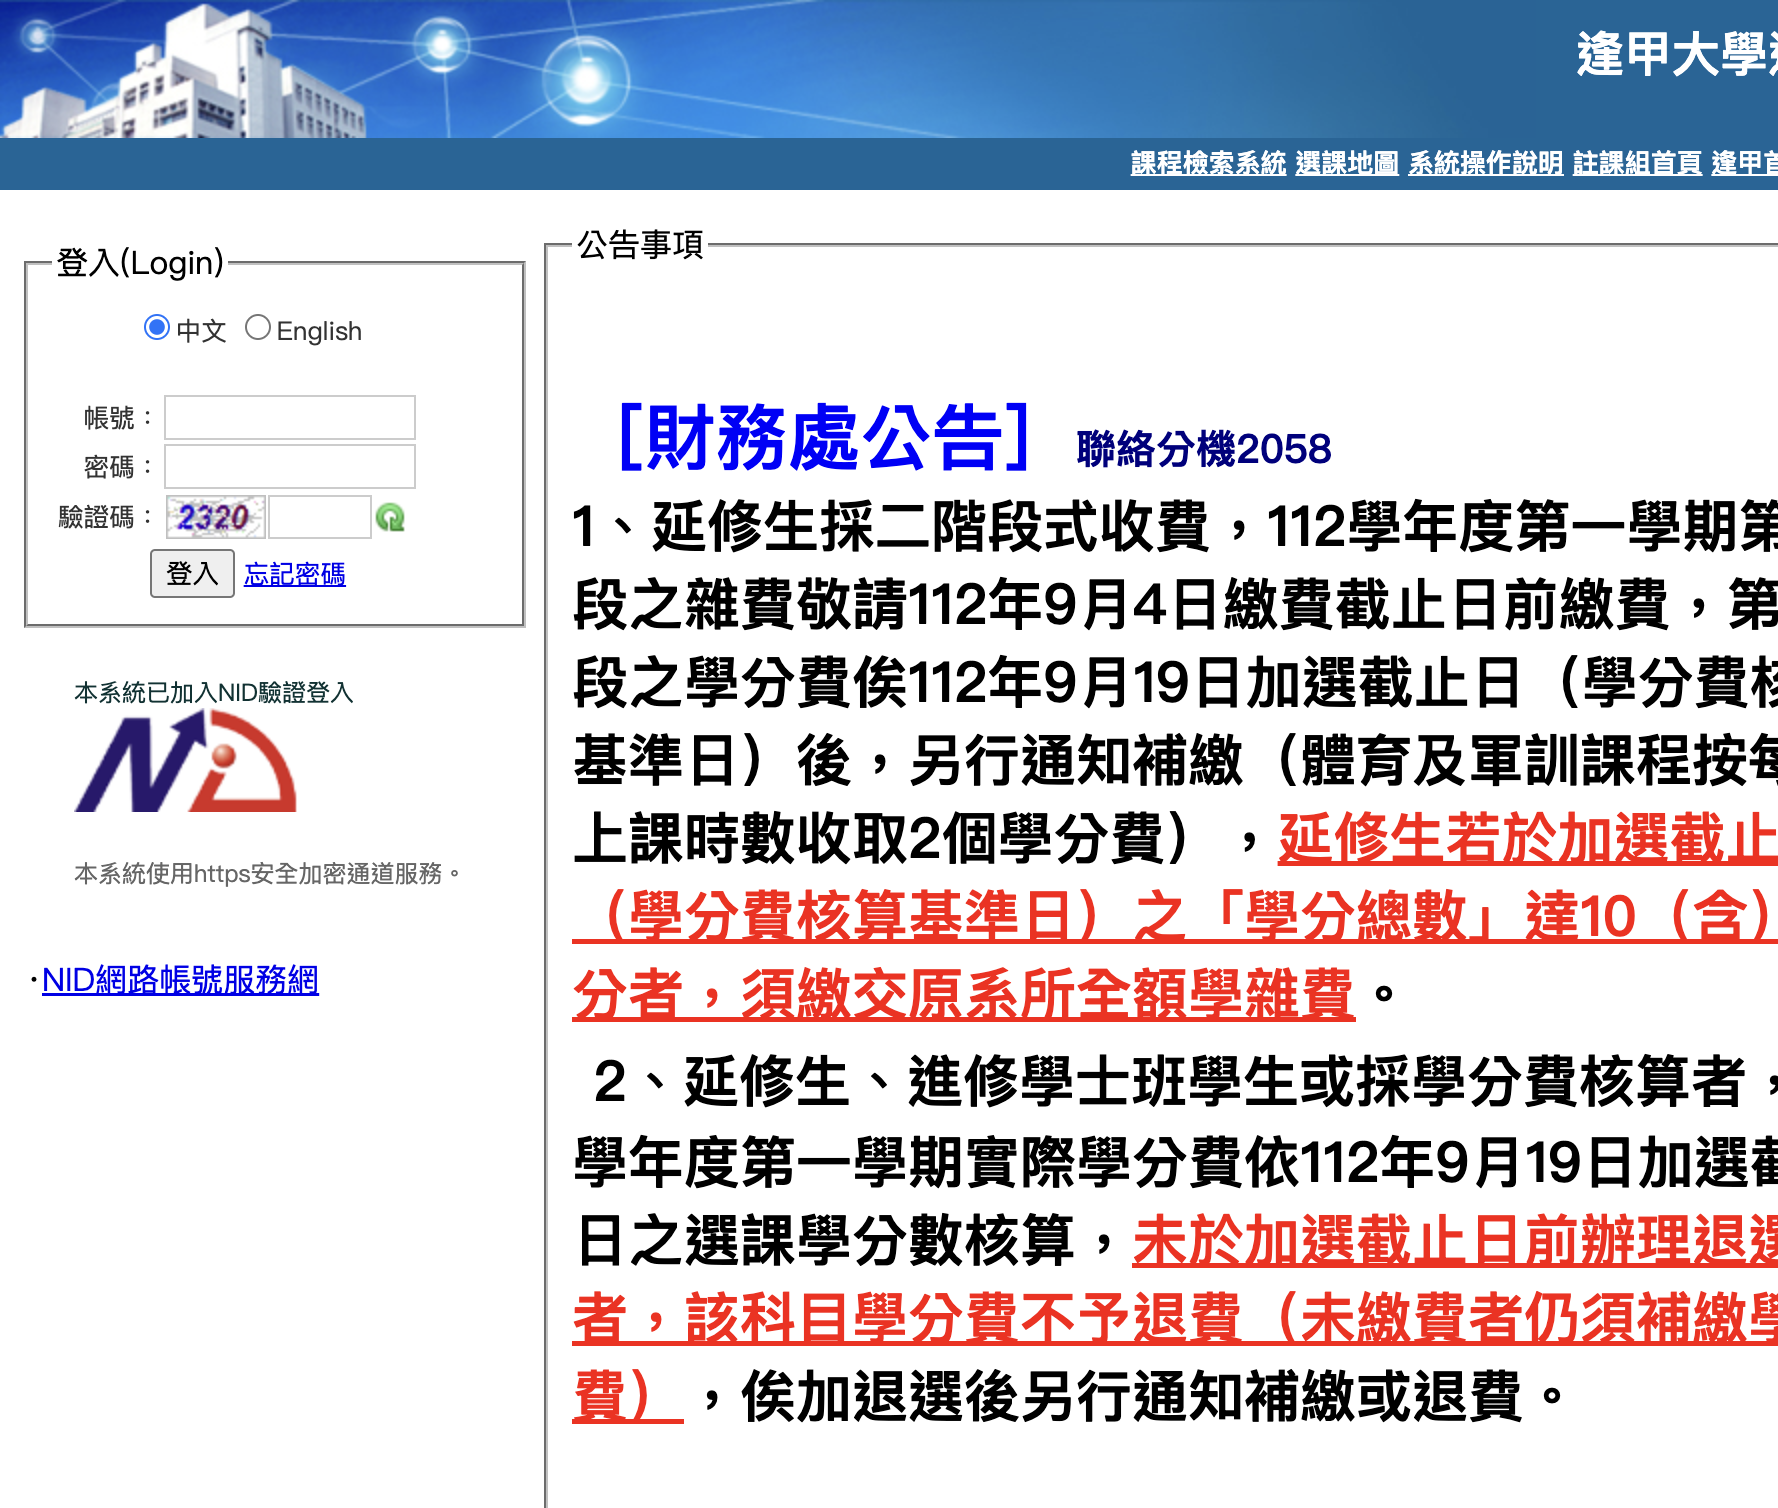
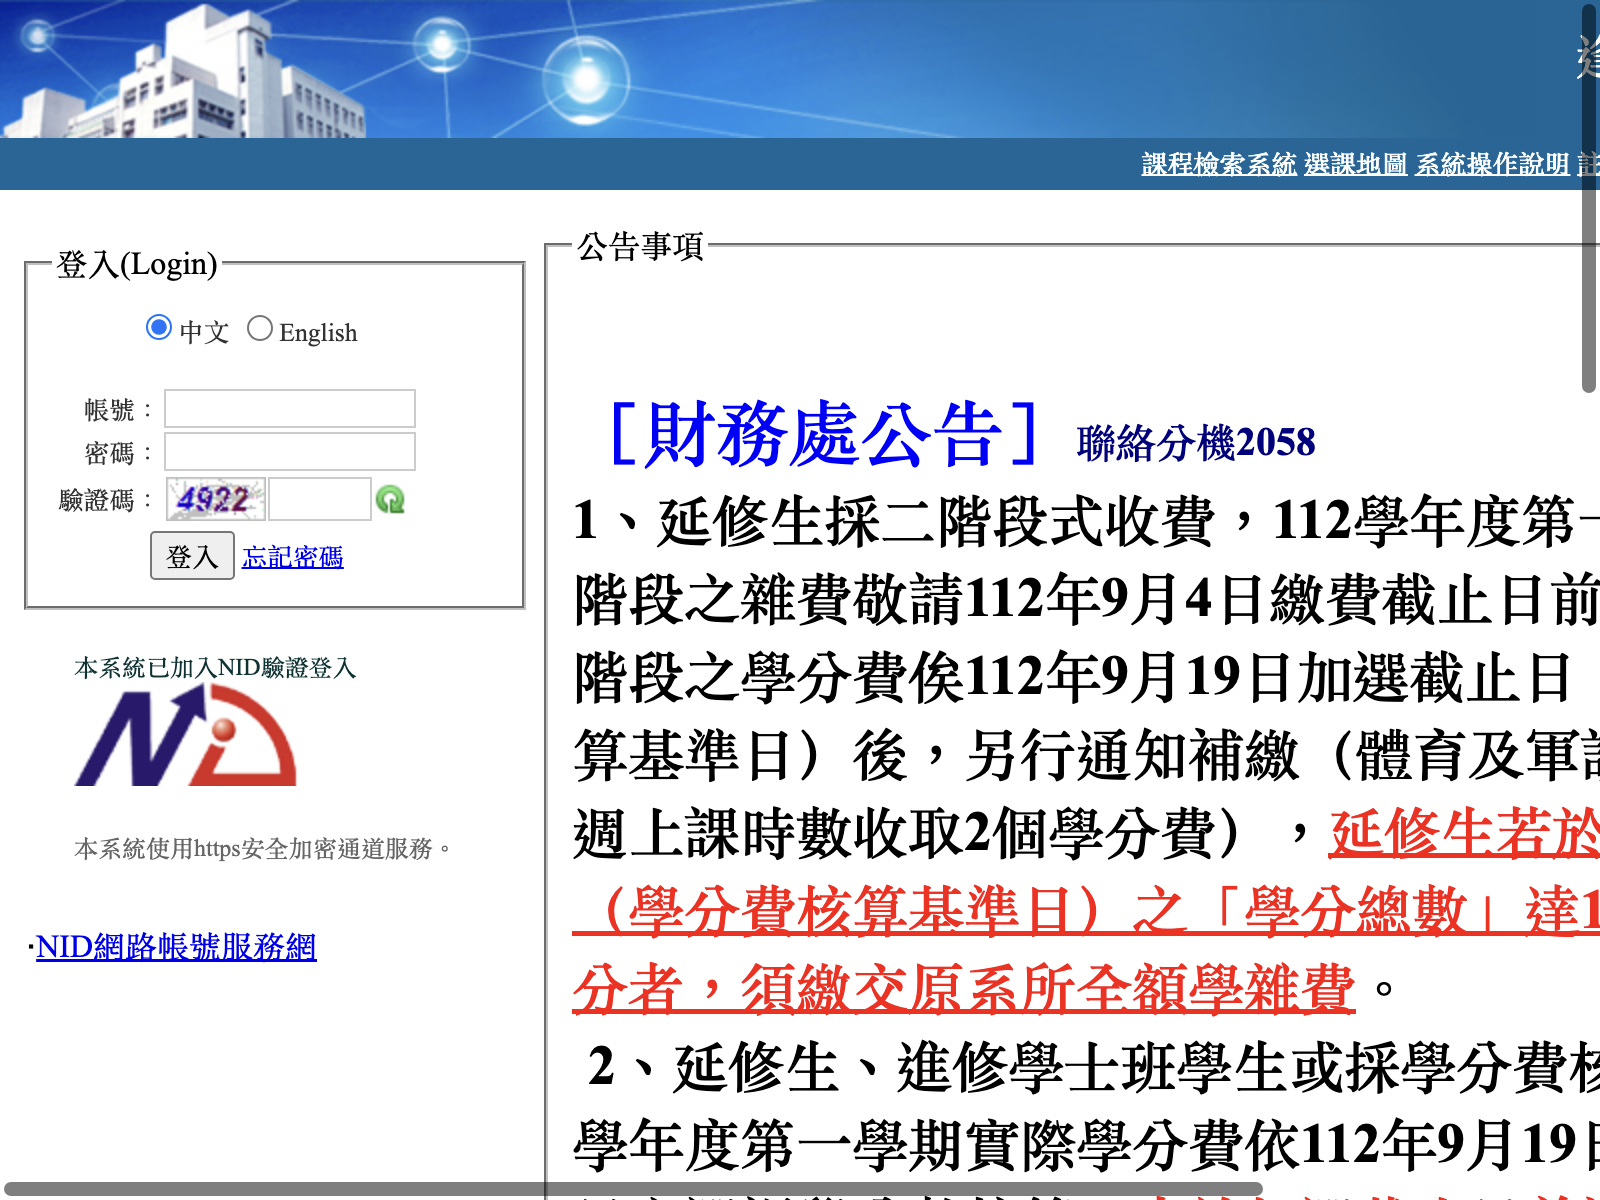
update

diff --git a/main/app.py b/main/app.py
@@ -17,23 +17,32 @@ import shutil
 chromedriver = "/opt/homebrew/bin/chromedriver"
 options = webdriver.ChromeOptions()
 options.add_argument("--incognito")
-# options.add_argument("headless")
-# options.add_argument("head")
+options.add_argument("headless")
 driver = webdriver.Chrome(options=options)
 
 Course_RUL = "https://course.fcu.edu.tw/"
 Logout_button = None
-
+webwait = 3
 def clear(): os.system('clear')
 
 def Get_Logout_button():
     return driver.find_element(By.XPATH, "//input[@name='ctl00$btnLogout']")
 
 def Get_boxes():
-    return [driver.find_element(By.XPATH, "//input[@id='ctl00_Login1_UserName']"), driver.find_element(By.XPATH, "//input[@id='ctl00_Login1_Password']"), driver.find_element(By.XPATH, "//input[@id='ctl00_Login1_vcode']")]
-
-def Get_vcode_element():
-    return driver.find_element(By.XPATH, "//img[@id='ctl00_Login1_Image1']")
+    return [
+        WebDriverWait(driver, webwait).until(
+                EC.presence_of_element_located((By.XPATH, "//input[@id='ctl00_Login1_UserName']"))
+        ),
+        WebDriverWait(driver, webwait).until(
+                EC.presence_of_element_located((By.XPATH, "//input[@id='ctl00_Login1_Password']"))
+        ),
+        WebDriverWait(driver, webwait).until(
+                EC.presence_of_element_located((By.XPATH, "//input[@id='ctl00_Login1_vcode']"))
+        ),
+        WebDriverWait(driver, webwait).until(
+                EC.presence_of_element_located((By.XPATH, "//img[@id='ctl00_Login1_Image1']"))
+        )
+    ]
 
 def checklog():
     global Logout_button
@@ -62,8 +71,7 @@ def login(cnt):
 
     print(f"正在破解登入...(第 {cnt} 次)")
 
-    account_box, password_box, vcode_box = Get_boxes()
-    vcode_element = Get_vcode_element()
+    account_box, password_box, vcode_box, vcode_element = Get_boxes()
 
     account_box.clear()
     password_box.clear()
@@ -75,8 +83,7 @@ def login(cnt):
     if vcode.strip() == "":
         refresh = driver.find_element(By.XPATH, "//input[@id='ctl00_Login1_ImageButton1']")
         refresh.click()
-        account_box, password_box, vcode_box = Get_boxes()
-        vcode_element = Get_vcode_element()
+        account_box, password_box, vcode_box, vcode_element = Get_boxes()
         vcode = getvcode(vcode_element)
 
 
@@ -129,8 +136,8 @@ def subscribe():
 
 def getvcode(vcode_element):
     driver.save_screenshot('../image/screenshot.png')
-    shift_x = 90
-    shift_y = 250
+    shift_x = 85 # 90
+    shift_y = 245 # 250
     left = vcode_element.location['x'] + shift_x
     right = left + vcode_element.size['width'] + shift_x - 40
     top = vcode_element.location['y'] + shift_y

diff --git a/main/config.py b/main/config.py
@@ -1,17 +1,9 @@
 class Users:
-    def __init__(self, account, password, classlist) -> None:
+    def __init__(self, account, password) -> None:
         self.account = account
         self.password = password
-        self.classlist = classlist
 
 ACCOUNT = "D1109023"
 PASSWORD = "vincent09132362"
 
-f = open('../txt/setting.txt', 'r')
-COURSES = f.readlines()
-for i in COURSES:
-    i = i[:-1]
-
-f.close()
-
-User = Users(ACCOUNT, PASSWORD, COURSES)
+User = Users(ACCOUNT, PASSWORD)

diff --git a/a.py b/a.py
@@ -4,9 +4,3 @@ img_name = './image.png'
 img = Image.open(img_name)
 text = pytesseract.image_to_string(img, lang='eng')
 print(text)
-
-
-
-
-
-
